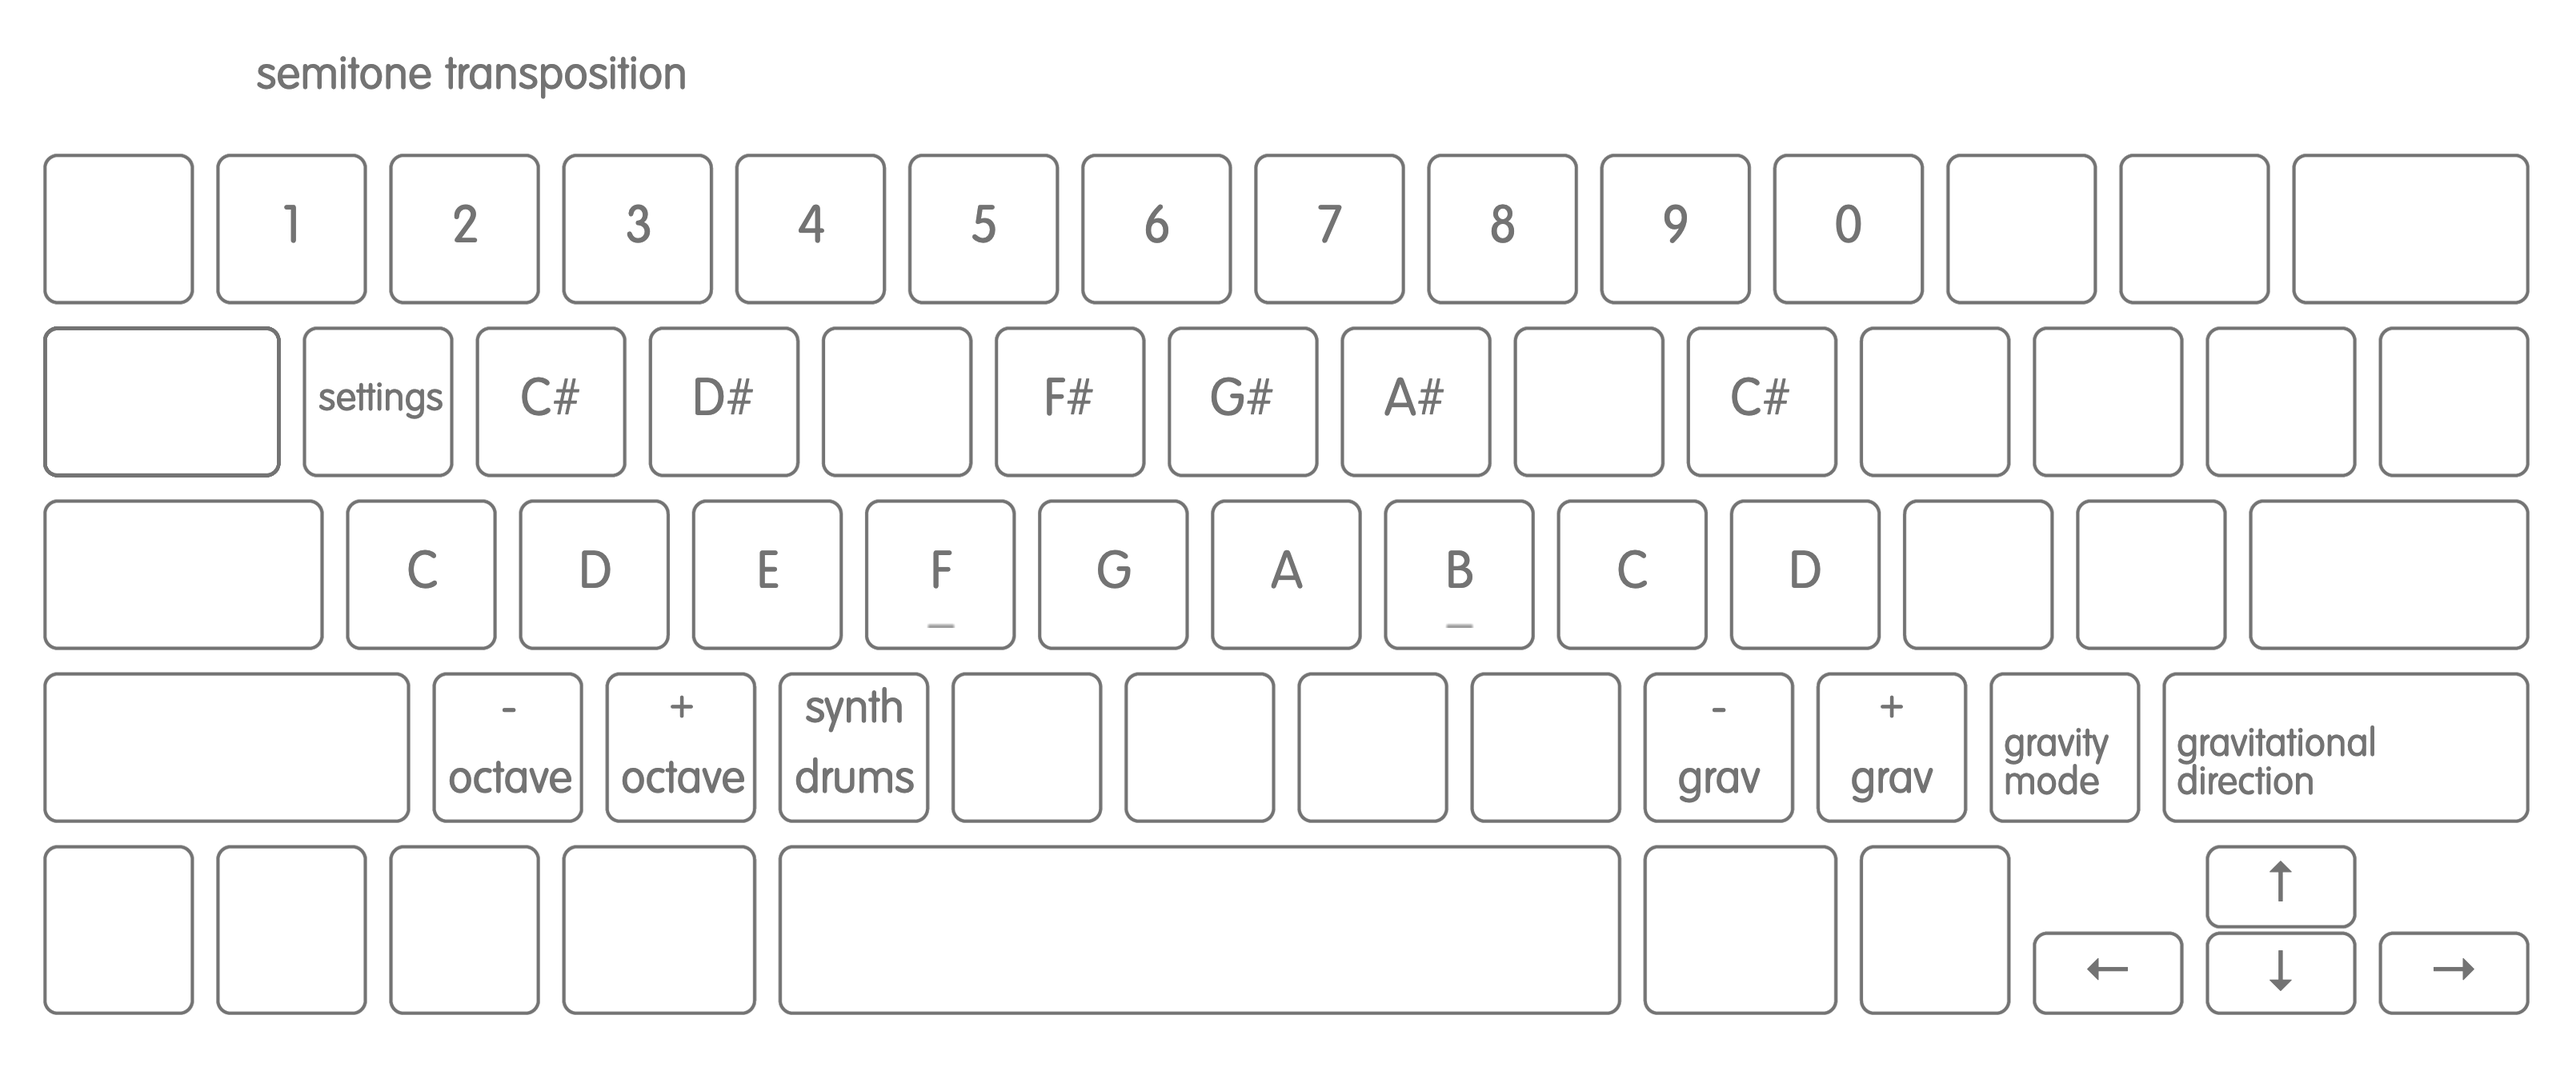
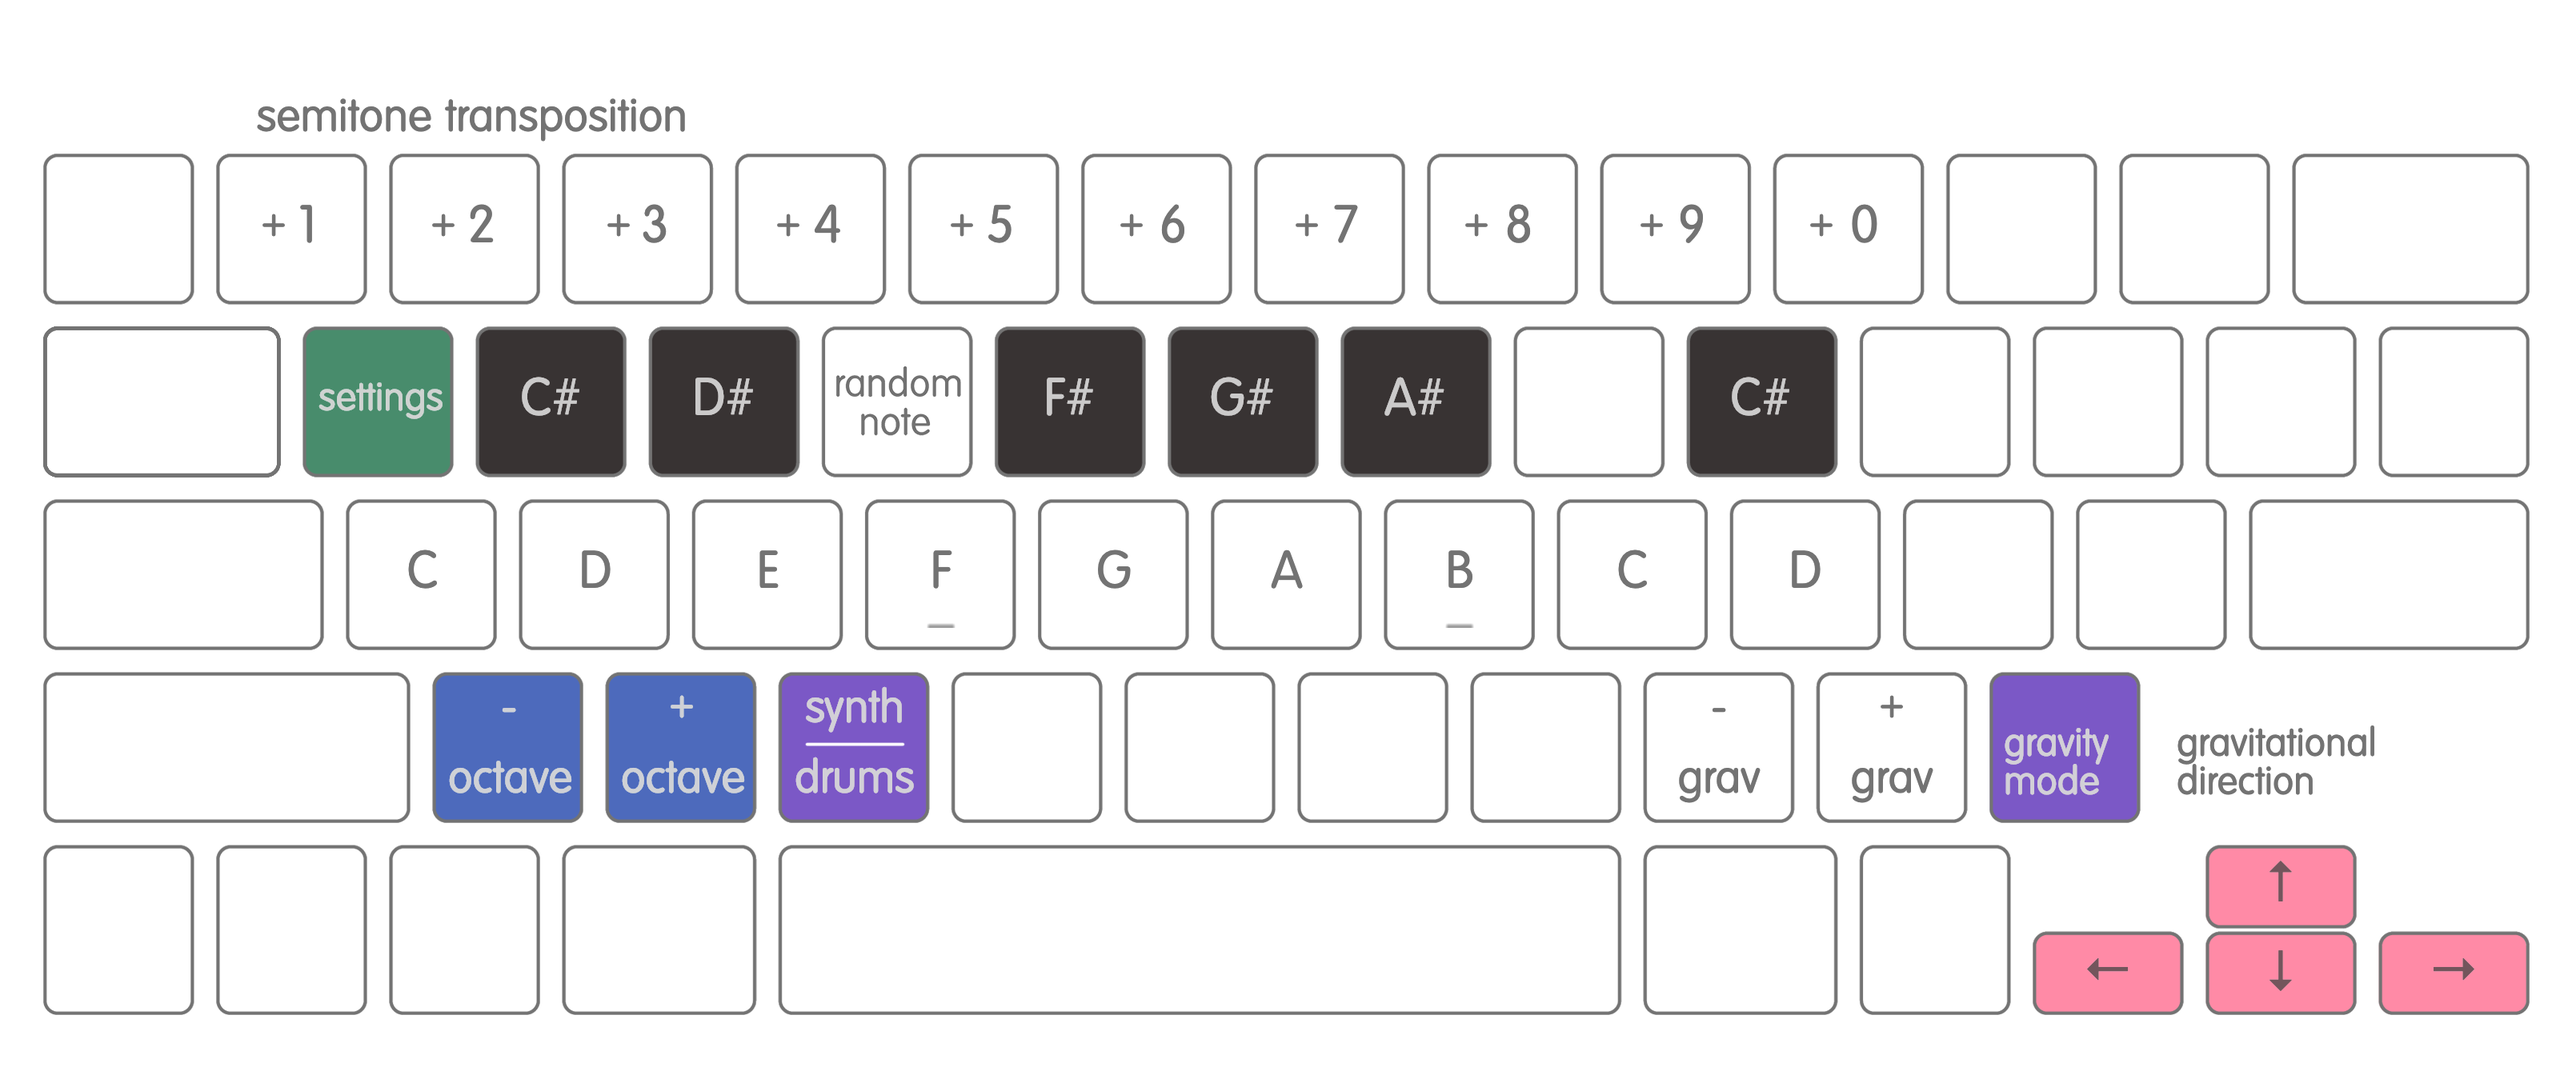
10.8.21 update

diff --git a/sketch.js b/sketch.js
@@ -29,8 +29,9 @@ var particleCount = 0; // keeps track of amount of particles in the screen.
 var gui; // define gui
 var gravityToggle = false; // boolean for gravity modes 'constant' and 'applied'.
 var voiceToggle = true; // boolean for voice modes melody and rhythm.
-var Waveform = ['sine','triangle','sawtooth','square','pwm','pulse','fmsine','fmtriangle','fmsawtooth','fmsquare','amsine','amtriangle','amsawtooth','amsquare'];
-var reverbWet = 20; // Reverb mix
+var Waveform = ['amsine','triangle','sawtooth','square','pwm','pulse','fmsine','fmtriangle','fmsawtooth','fmsquare','sine','amtriangle','amsawtooth','amsquare'];
+var waveformList = ['sine','triangle','sawtooth','square','pwm','pulse','fmsine','fmtriangle','fmsawtooth','fmsquare','amsine','amtriangle','amsawtooth','amsquare'];
+var reverbWet = 30; // Reverb mix
 var reverbWetMin = 0; // quicksettings recognizes 'min' 'max' and 'step' suffixes and automatically applies them to the gui.
 var reverbWetMax = 100;
 var reverbDecay = 3; // Reverb decay time in seconds
@@ -63,6 +64,7 @@ function toggleKeyguide() {
 
 const keyboard = ['a', 'w', 's', 'e', 'd', 'f', 't', 'g', 'y', 'h', 'u', 'j', 'k', 'o', 'l']; // string arrays of acceptable keyboard piano input
 const keyboardCapital = ['A', 'W', 'S', 'E', 'D', 'F', 'T', 'G', 'Y', 'H', 'U', 'J', 'K', 'O', 'L']; // uppercase version, to make it case insensitive
+const surpriseNote = [0, 2, 4, 5, 7, 9, 11, -7, -12, 14];
 
 // Tone.js Master Channel
 const masterChannel = new Tone.Channel().toMaster();
@@ -110,7 +112,7 @@ function setup() { // setup runs once when the program is initialized
   bounds.push(wallR);
 } // END SETUP() --------
 
-// a p5 function for drawing n-gons from a radius.
+// a function for drawing n-gons.
 function polygon(x, y, radius, npoints) {
   let angle = TWO_PI / npoints;
   beginShape();
@@ -128,6 +130,19 @@ function newParticle(key) { // receives 'key' which is the midi note #
   //spawn melody particles by adding a Particle object to the particles array.
   // see particles.js for more info about the constructor
   particles.push(new Particle(random(width / 20, width - width / 20), random(height / 20, height - height / 2), random(particleSizeMinimum, particleSizeMaximum), key, Waveform,Lifespan, Bounciness, Friction));
+  } else if (!voiceToggle){
+  //spawn drum particles by adding a ParticleDrum object to the particles array.
+    particles.push(new ParticleDrum(random(width / 20, width - width / 20), random(height / 20, height - height / 2), random(particleSizeMinimum, particleSizeMaximum), key, Lifespan,Bounciness,Friction));
+  }
+  particleCount += 1; // add to the particleCount tally
+}
+
+// function that spawns particles, called when note input is detected
+function newRandomParticle(key,randomWave) { // receives 'key' which is the midi note #
+  if (voiceToggle){ //if statement checks what voiceMode we're in. True is Melody and False is Drums.
+  //spawn melody particles by adding a Particle object to the particles array.
+  // see particles.js for more info about the constructor
+  particles.push(new Particle(random(width / 20, width - width / 20), random(height / 20, height - height / 2), random(particleSizeMinimum, particleSizeMaximum), key, randomWave, Lifespan, Bounciness, Friction));
   } else if (!voiceToggle){
   //spawn drum particles by adding a ParticleDrum object to the particles array.
     particles.push(new ParticleDrum(random(width / 20, width - width / 20), random(height / 20, height - height / 2), random(particleSizeMinimum, particleSizeMaximum), key, Lifespan,Bounciness,Friction));
@@ -162,7 +177,7 @@ function removeParticle(i) {
     removeCount += 1;
   }
 }
-// dynamically resizes the sketch to the window
+// resizes the sketch to the window
 function windowResized(){
   resizeCanvas(windowWidth,windowHeight);
 }
@@ -216,14 +231,25 @@ function keyTyped() {
     } else if (keyboardCapital.includes(key)) { // the same as before but for capital letters. Fixes the issue of caps lock disabling input.
       let k = keyboardCapital.indexOf(key) + octave * 12 + 12 + transpose;
       newParticle(k);
-    } } else if (!voiceToggle){ // voiceMode FALSE: Drums
+    } else if (key === 'r') { // random note
+      let k = surpriseNote[Math.floor(Math.random()*surpriseNote.length)];
+      console.log(k);
+      let w = waveformList[Math.floor(Math.random()*waveformList.length)]
+    newRandomParticle(k + octave * 12 + 12 + transpose, w);
+  } else if (key === 'R') { // random note CAPS
+    let k = surpriseNote[Math.floor(Math.random()*surpriseNote.length)];
+    console.log(k);
+    let w = waveformList[Math.floor(Math.random()*waveformList.length)]
+  newRandomParticle(k + octave * 12 + 12 + transpose, w);
+}
+  } else if (!voiceToggle){ // voiceMode FALSE: Drums
       if (keyboard.includes(key)) {  // the only difference here is that in Drum mode, the octave value is fixed at 4, so the octave switch will not affect its pitch.
         let k = keyboard.indexOf(key) + 4 * 12 + 12 + transpose;
         newParticle(k);
       } else if (keyboardCapital.includes(key)) {
         let k = keyboardCapital.indexOf(key) + 4 * 12 + 12 + transpose;
         newParticle(k);
-    }}
+    }}}
     // key mapping for other functions
     if (key >= 0 || key <= 9) {
       transpose = Number(key); // semitone transpotiion
@@ -232,9 +258,17 @@ function keyTyped() {
       if (octave < 8) {
         octave += 1; // octave up switch
       }
+    } else if (key === 'X') {
+      if (octave < 8) {
+        octave += 1; // octave up switch CAPS
+      }
     } else if (key === 'z') {
       if (octave > 1) {
-        octave -= 1; // octave down switch
+        octave -= 1; // octave down switch CAPS
+      }
+    } else if (key === 'Z') {
+      if (octave > 1) {
+        octave -= 1; // octave down switch CAPS
       }
     } else if (key === '/') { // gravity mode toggle
       gravityToggle = !gravityToggle;
@@ -244,11 +278,15 @@ function keyTyped() {
       gravityMultiplier -= 0.5;
     } else if (key === 'c'){ // voice mode toggle
       voiceToggle = !voiceToggle;
+    } else if (key === 'C'){ // voice mode toggle CAPS
+      voiceToggle = !voiceToggle;
     } else if (key === 'q'){ // toggle GUI
       gui.toggleVisibility();
       toggleKeyguide();
+    } else if (key === 'Q'){ // toggle GUI CAPS
+      gui.toggleVisibility();
+      toggleKeyguide();
     }
-  }
   return false;
 }
 
@@ -287,4 +325,3 @@ function draw() { // draw loops every frame
     bounds[i].show(); // draw all the boundaries
   }
 }
-// if you're reading the comments linearly, next check out particle.js!

diff --git a/particleDrum.js b/particleDrum.js
@@ -52,6 +52,7 @@ class ParticleDrum { //most things are the same here as in particle.js
         "B4" : "samples/07.mp3",
         "C#4" : "samples/kethuk4.mp3",
       });
+      this.sampler.volume.value = -20;
       this.sampler.connect(this.channel);
     }
   
@@ -86,4 +87,3 @@ class ParticleDrum { //most things are the same here as in particle.js
       this.channel.dispose();
     }
   }
-  // I'm ending the comments here. Thanks for reading!

diff --git a/style.css b/style.css
@@ -35,7 +35,7 @@ img {
   top: 25vh;
   position: absolute;
   z-index: 10;
-  opacity: 0.5;
+  opacity: 0.95;
 }
 
 .hideKeyguide {
